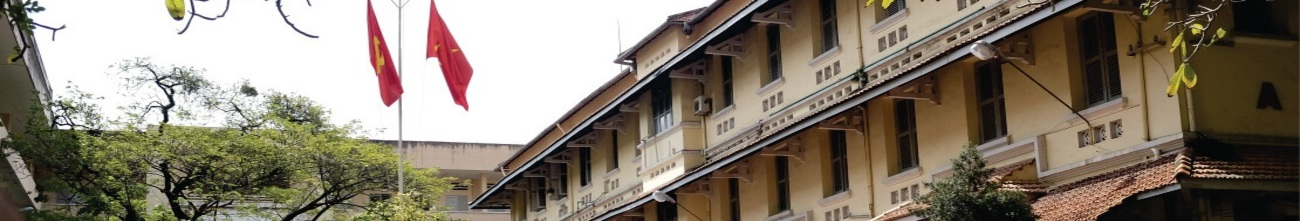
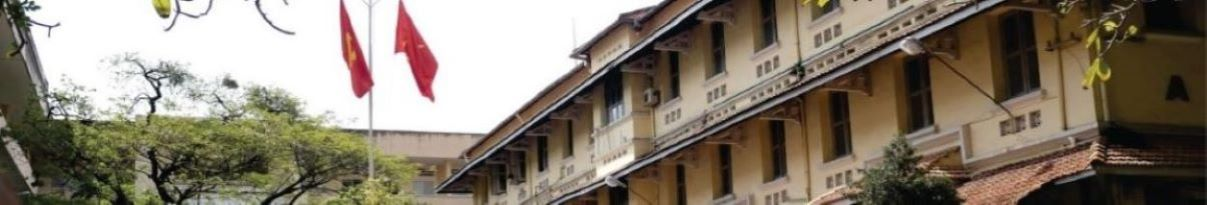
fix

diff --git a/index.html b/index.html
@@ -69,7 +69,7 @@
 				<!-- One -->
 			<!-- EDUCATION SECTION -->
 			<section id="one" class="wrapper style2 spotlights" style="background-color: plum;">
-				<a href="#" class="image"><img src="images/school.jpg" alt="" data-position="center center" /></a>
+				<a href="#" class="image"><img src="images/school.jpg" alt="" data-position="center" /></a>
 				<div class="inner" style="display: flex; align-items: center; justify-content: space-between;">
 					<!-- Phần chữ bên trái -->
 					<div style="text-align: left; max-width: 60%; color: #2E1A47; padding-right: 40px;">

diff --git a/assets/css/main.css b/assets/css/main.css
@@ -91,7 +91,6 @@ input, select, textarea {
 
 	html {
 		box-sizing: border-box;
-		overflow-x: hidden;
 	}
 
 	*, *:before, *:after {
@@ -3889,7 +3888,7 @@ input, select, textarea {
 
 	#intro {
 		background-attachment: fixed;
-		background-image: url("images/intro.svg");
+		background-color: lavender;
 		background-position: top right;
 		background-repeat: no-repeat;
 		background-size: 100% 100%;
